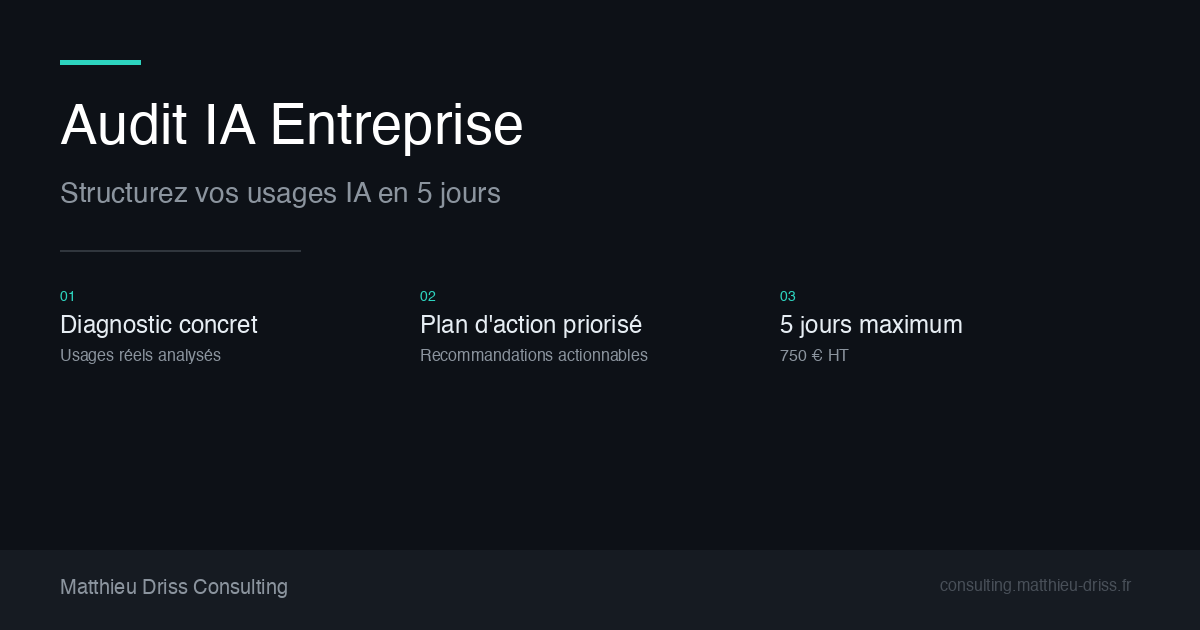
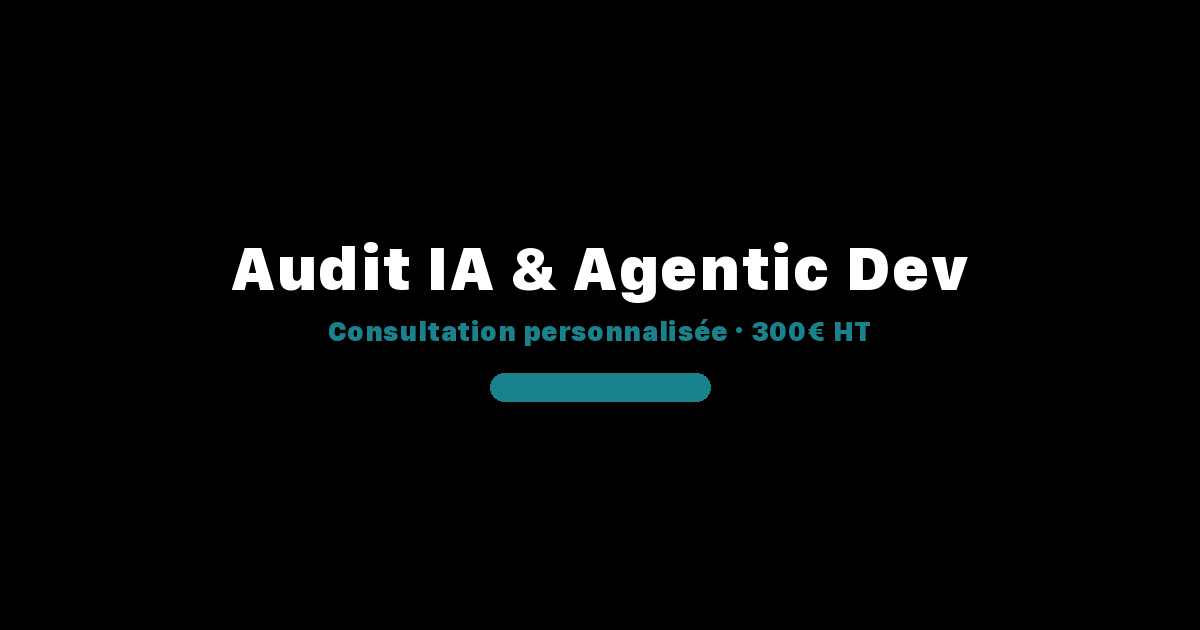
fix: sync JSON-LD FAQ with HTML FAQ, regenerate og-image.png
JSON-LD FAQ questions/answers now match HTML body exactly.
og-image.png regenerated with new text and pricing (300€ HT).
TODOS.md updated: all "build now" items complete.

diff --git a/index.html b/index.html
@@ -116,42 +116,42 @@
                 "mainEntity": [
                     {
                         "@type": "Question",
-                        "name": "J'utilise déjà ChatGPT ou Claude. Pourquoi une consultation ?",
+                        "name": "On utilise déjà ChatGPT/Claude. Pourquoi une consultation ?",
                         "acceptedAnswer": {
                             "@type": "Answer",
-                            "text": "Utiliser un LLM ne signifie pas avoir une méthode. La consultation identifie si vos usages créent vraiment de la valeur ou restent du prompt engineering basique, et vous donne des outils concrets adaptés à votre stack."
+                            "text": "Utiliser un LLM ne signifie pas l'exploiter au maximum. La consultation identifie ce que vous pourriez automatiser, accélérer ou déléguer — mais que vous n'avez pas encore vu."
                         }
                     },
                     {
                         "@type": "Question",
-                        "name": "Je ne sais pas par où commencer avec l'IA.",
+                        "name": "Je n'ai pas le temps pour un audit de 5 jours.",
                         "acceptedAnswer": {
                             "@type": "Answer",
-                            "text": "C'est précisément l'objectif de la consultation : clarifier les meilleurs cas d'usage pour votre contexte, prioriser les actions et éviter les investissements inutiles."
+                            "text": "Justement — le format est pensé pour vous : 45 min d'appel + un document de recommandations livré sous 72h. Pas de réunion de cadrage, pas de rapport de 50 pages."
                         }
                     },
                     {
                         "@type": "Question",
-                        "name": "Je suis solo founder ou petite équipe. Est-ce pertinent ?",
+                        "name": "Mon équipe n'est pas technique.",
                         "acceptedAnswer": {
                             "@type": "Answer",
-                            "text": "Oui. Les petites équipes ont le plus à gagner : vous pouvez intégrer l'IA dans vos process sans la lourdeur des grands groupes. La consultation est calibrée pour des équipes de 1 à 10 personnes."
+                            "text": "Les meilleurs usages de Claude Code ou Cursor ne sont pas réservés aux développeurs. L'enjeu est de trouver les bons leviers pour votre contexte, pas d'embaucher une équipe ML."
                         }
                     },
                     {
                         "@type": "Question",
-                        "name": "Est-ce que ça vaut 300€ ?",
+                        "name": "Comment savoir si ça vaut 300€ ?",
                         "acceptedAnswer": {
                             "@type": "Answer",
-                            "text": "Vous repartez avec des livrables concrets : des skills personnalisées ou un template documenté, un plan d'action et des recommandations spécifiques à votre stack. L'objectif est que vous gagniez plus de temps que ce que vous investissez."
+                            "text": "Le premier échange est sans engagement. Si après l'appel vous n'avez pas identifié au moins un levier concret, vous ne payez rien. Et si le livrable ne vous donne pas un plan actionnable, je le retravaille gratuitement."
                         }
                     },
                     {
                         "@type": "Question",
-                        "name": "Pourquoi ne pas simplement acheter un nouvel outil IA ?",
+                        "name": "Pourquoi ne pas juste demander à ChatGPT ?",
                         "acceptedAnswer": {
                             "@type": "Answer",
-                            "text": "Un outil ne crée pas automatiquement de la valeur. Avant d'ajouter des logiciels, il faut identifier les vrais usages, les bons process et les priorités de votre contexte."
+                            "text": "ChatGPT ne connaît pas votre codebase, votre stack, ni vos contraintes business. La consultation croise votre contexte réel avec une expertise IA qui va au-delà des suggestions génériques d'un LLM."
                         }
                     }
                 ]

diff --git a/TODOS.md b/TODOS.md
@@ -1,0 +1,22 @@
+# TODOS
+
+## Design — Done (offer-rewrite)
+
+### og-image.png regenerated
+- **Status:** ✓ Complete
+- New og-image.png (1200x630) with text: "Audit IA & Agentic Dev" / "Consultation personnalisée · 300€ HT"
+- Monochrome design (#000/#fff), SF Compact geometric sans-serif, teal pill accent per DESIGN.md
+- Generated 2026-05-06 via Python Pillow
+
+### Prior "Build it now" items — Done
+- ✓ Form loading/error states (D4): spinner animation + 10s timeout with email fallback
+- ✓ Hero meta mobile CSS (D9): full-width pill on <768px
+- ✓ Success banner redesign (D11): "Merci ! Je vous contacte sous 24h."
+
+---
+
+## Post-deploy checks (not blocking)
+
+- [ ] Google Rich Results Test on deployed URL (all 4 JSON-LD schemas)
+- [ ] Twitter Card Validator
+- [ ] LinkedIn Post Inspector
